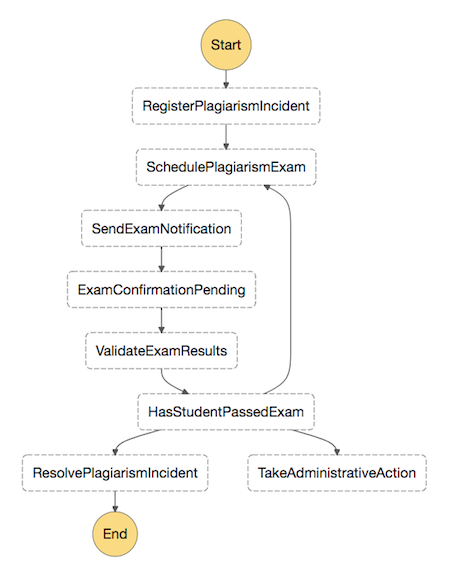
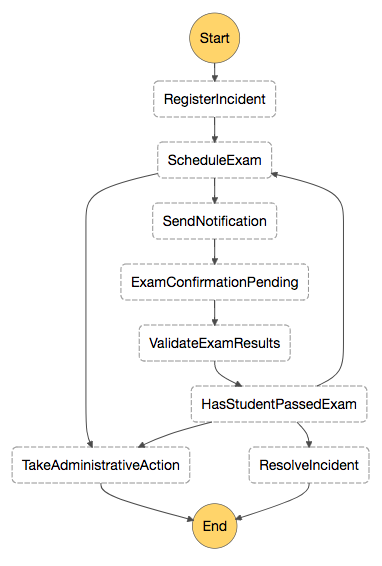
updated specification. All state data being passed without persistance to Dynambo. Adding this to the final states in next commit.

diff --git a/www/index.html b/www/index.html
@@ -108,7 +108,7 @@
                 console.log(this.data);
 
                 // POST /someUrl
-                this.$http.post('https://samzx9cqsc.execute-api.ap-southeast-2.amazonaws.com/v1/incident', this.incidentData)
+                this.$http.post('https://bvwy0snprb.execute-api.ap-southeast-2.amazonaws.com/v1/incident', this.incidentData)
                     .then(response => {
                         // get status
                         console.log(response.status);

diff --git a/steps/resolveIncident/dev/lambda_function.py b/steps/resolveIncident/dev/lambda_function.py
@@ -11,22 +11,26 @@ table = dynamodb.Table(incidents_table)
 
 def lambda_handler(event, context):
 
-    # update incident
-    table.update_item(
-        Key={
-            'incident_id': event['incident_id']
-        },
-        UpdateExpression='SET incident_resolved = :val1, resolution_date = :val2',
-        ExpressionAttributeValues={
-            ':val1': True,
-            ':val2': (datetime.now()).strftime('%Y-%m-%dT%H:%M:%SZ')
-        }
-    )
+    event['incident_resolved'] = True
+    event['resolution_date'] = (datetime.now()).strftime('%Y-%m-%dT%H:%M:%SZ')
 
-    updated_event = table.get_item(
-        Key={
-            'incident_id': event['incident_id'] 
-        }
-    )
+    # update incident
+    # table.update_item(
+    #     Key={
+    #         'incident_id': event['incident_id']
+    #     },
+    #     UpdateExpression='SET incident_resolved = :val1, resolution_date = :val2',
+    #     ExpressionAttributeValues={
+    #         ':val1': True,
+    #         ':val2': (datetime.now()).strftime('%Y-%m-%dT%H:%M:%SZ')
+    #     }
+    # )
+
+    # updated_event = table.get_item(
+    #     Key={
+    #         'incident_id': event['incident_id'] 
+    #     }
+    # )
     
-    return updated_event
+    # return updated_event
+    return event

diff --git a/steps/resolveIncident/lambda_function.py b/steps/resolveIncident/lambda_function.py
@@ -11,22 +11,26 @@ table = dynamodb.Table(incidents_table)
 
 def lambda_handler(event, context):
 
-    # update incident
-    table.update_item(
-        Key={
-            'incident_id': event['incident_id']
-        },
-        UpdateExpression='SET incident_resolved = :val1, resolution_date = :val2',
-        ExpressionAttributeValues={
-            ':val1': True,
-            ':val2': (datetime.now()).strftime('%Y-%m-%dT%H:%M:%SZ')
-        }
-    )
+    event['incident_resolved'] = True
+    event['resolution_date'] = (datetime.now()).strftime('%Y-%m-%dT%H:%M:%SZ')
 
-    updated_event = table.get_item(
-        Key={
-            'incident_id': event['incident_id'] 
-        }
-    )
+    # update incident
+    # table.update_item(
+    #     Key={
+    #         'incident_id': event['incident_id']
+    #     },
+    #     UpdateExpression='SET incident_resolved = :val1, resolution_date = :val2',
+    #     ExpressionAttributeValues={
+    #         ':val1': True,
+    #         ':val2': (datetime.now()).strftime('%Y-%m-%dT%H:%M:%SZ')
+    #     }
+    # )
+
+    # updated_event = table.get_item(
+    #     Key={
+    #         'incident_id': event['incident_id'] 
+    #     }
+    # )
     
-    return updated_event
+    # return updated_event
+    return event

diff --git a/steps/scheduleExam/lambda_function.py b/steps/scheduleExam/lambda_function.py
@@ -12,29 +12,22 @@ table = dynamodb.Table(incidents_table)
 
 def lambda_handler(event, context):
 
-    response = table.get_item(
-        Key={
-            'incident_id': event['incident_id']
-        }
-    )
-
-    incident = response['Item']
     exam = {
         "exam_id": str(uuid.uuid4()),
         "exam_date": (datetime.now() + timedelta(seconds=10)).strftime('%Y-%m-%dT%H:%M:%SZ'),
         "score": 0
     }
 
-    if 'exams' in incident:
-        if len(incident['exams']) > 3:
-            raise Exception() # Student cant take mor ethan 3 exams
+    if 'exams' in event:
+        if len(event['exams']) >= 3:
+            raise StudentExceededAllowableExamRetries('Student cannot take more than 3 exams')
         else:
-            incident['exams'].append(exam)
+            event['exams'].append(exam)
     else:
-        incident['exams'] = [exam]
+        event['exams'] = [exam]
 
-    table.put_item(
-        Item=incident
-    )
+    return event
 
-    return incident
+
+class StudentExceededAllowableExamRetries(Exception):
+    pass

diff --git a/steps/scheduleExam/dev/lambda_function.py b/steps/scheduleExam/dev/lambda_function.py
@@ -12,29 +12,22 @@ table = dynamodb.Table(incidents_table)
 
 def lambda_handler(event, context):
 
-    response = table.get_item(
-        Key={
-            'incident_id': event['incident_id']
-        }
-    )
-
-    incident = response['Item']
     exam = {
         "exam_id": str(uuid.uuid4()),
         "exam_date": (datetime.now() + timedelta(seconds=10)).strftime('%Y-%m-%dT%H:%M:%SZ'),
         "score": 0
     }
 
-    if 'exams' in incident:
-        if len(incident['exams']) > 3:
-            raise Exception() # Student cant take mor ethan 3 exams
+    if 'exams' in event:
+        if len(event['exams']) >= 3:
+            raise StudentExceededAllowableExamRetries('Student cannot take more than 3 exams')
         else:
-            incident['exams'].append(exam)
+            event['exams'].append(exam)
     else:
-        incident['exams'] = [exam]
-
-    table.put_item(
-        Item=incident
-    )
+        event['exams'] = [exam]
 
     return event
+
+
+class StudentExceededAllowableExamRetries(Exception):
+    pass

diff --git a/steps/sendNotification/dev/lambda_function.py b/steps/sendNotification/dev/lambda_function.py
@@ -11,17 +11,17 @@ topic = os.environ['TOPIC_ARN']
 
 def lambda_handler(event, context):
 
-    response = table.get_item(
-        Key={
-            'incident_id': event['incident_id']
-        }
-    )
+    # response = table.get_item(
+    #     Key={
+    #         'incident_id': event['incident_id']
+    #     }
+    # )
     
-    incident = response['Item']
+    # incident = response['Item']
     
     scheduled_exam = {
-        "incident_id": incident['incident_id'],
-        "exam": incident['exams'][-1]
+        "incident_id": event['incident_id'],
+        "exam": event['exams'][-1]
     }
     
     message = "Dear Student ID {0}, you have until {1} to complete you Plagiarism Violation test. Thank you.".format(event['student_id'], scheduled_exam['exam']['exam_date'])
@@ -33,4 +33,4 @@ def lambda_handler(event, context):
         Subject=subject
     )
 
-    return  scheduled_exam
+    return  event

diff --git a/steps/sendNotification/lambda_function.py b/steps/sendNotification/lambda_function.py
@@ -11,17 +11,17 @@ topic = os.environ['TOPIC_ARN']
 
 def lambda_handler(event, context):
 
-    response = table.get_item(
-        Key={
-            'incident_id': event['incident_id']
-        }
-    )
+    # response = table.get_item(
+    #     Key={
+    #         'incident_id': event['incident_id']
+    #     }
+    # )
     
-    incident = response['Item']
+    # incident = response['Item']
     
     scheduled_exam = {
-        "incident_id": incident['incident_id'],
-        "exam": incident['exams'][-1]
+        "incident_id": event['incident_id'],
+        "exam": event['exams'][-1]
     }
     
     message = "Dear Student ID {0}, you have until {1} to complete you Plagiarism Violation test. Thank you.".format(event['student_id'], scheduled_exam['exam']['exam_date'])
@@ -33,4 +33,4 @@ def lambda_handler(event, context):
         Subject=subject
     )
 
-    return  scheduled_exam
+    return  event

diff --git a/steps/validateExam/lambda_function.py b/steps/validateExam/lambda_function.py
@@ -1,13 +1,9 @@
 from __future__ import print_function
 import random
 
-
-def get_random_score():
-    options = [67, 0, 60]
-    return options[random.randint(0, len(options)-1)]
-
-
 def lambda_handler(event, context):
-    
-    event['exam']['score'] = get_random_score()
+    # Generating a ramdom score. This would otherwise be calling an external system.
+    exam_score = random.randint(0,100)
+    event['exams'][-1]['score'] = exam_score
+    event['last_exam_score'] = exam_score
     return event

diff --git a/steps/validateExam/dev/lambda_function.py b/steps/validateExam/dev/lambda_function.py
@@ -1,13 +1,9 @@
 from __future__ import print_function
 import random
 
-
-def get_random_score():
-    options = [67, 0, 60]
-    return options[random.randint(0, len(options)-1)]
-
-
 def lambda_handler(event, context):
-
-    event['exam']['score'] = get_random_score()
+    # Generating a ramdom score. This would otherwise be calling an external system.
+    exam_score = random.randint(0,100)
+    event['exams'][-1]['score'] = exam_score
+    event['last_exam_score'] = exam_score
     return event

diff --git a/steps/registerIncident/dev/lambda_function.py b/steps/registerIncident/dev/lambda_function.py
@@ -31,8 +31,8 @@ def create_incident(incident_date, student_id):
         "incident_resolved": False
     }
 
-    table.put_item(
-        Item=new_incident
-    )
+    # table.put_item(
+    #     Item=new_incident
+    # )
 
     return new_incident

diff --git a/steps/registerIncident/lambda_function.py b/steps/registerIncident/lambda_function.py
@@ -31,8 +31,8 @@ def create_incident(incident_date, student_id):
         "incident_resolved": False
     }
 
-    table.put_item(
-        Item=new_incident
-    )
+    # table.put_item(
+    #     Item=new_incident
+    # )
 
     return new_incident
